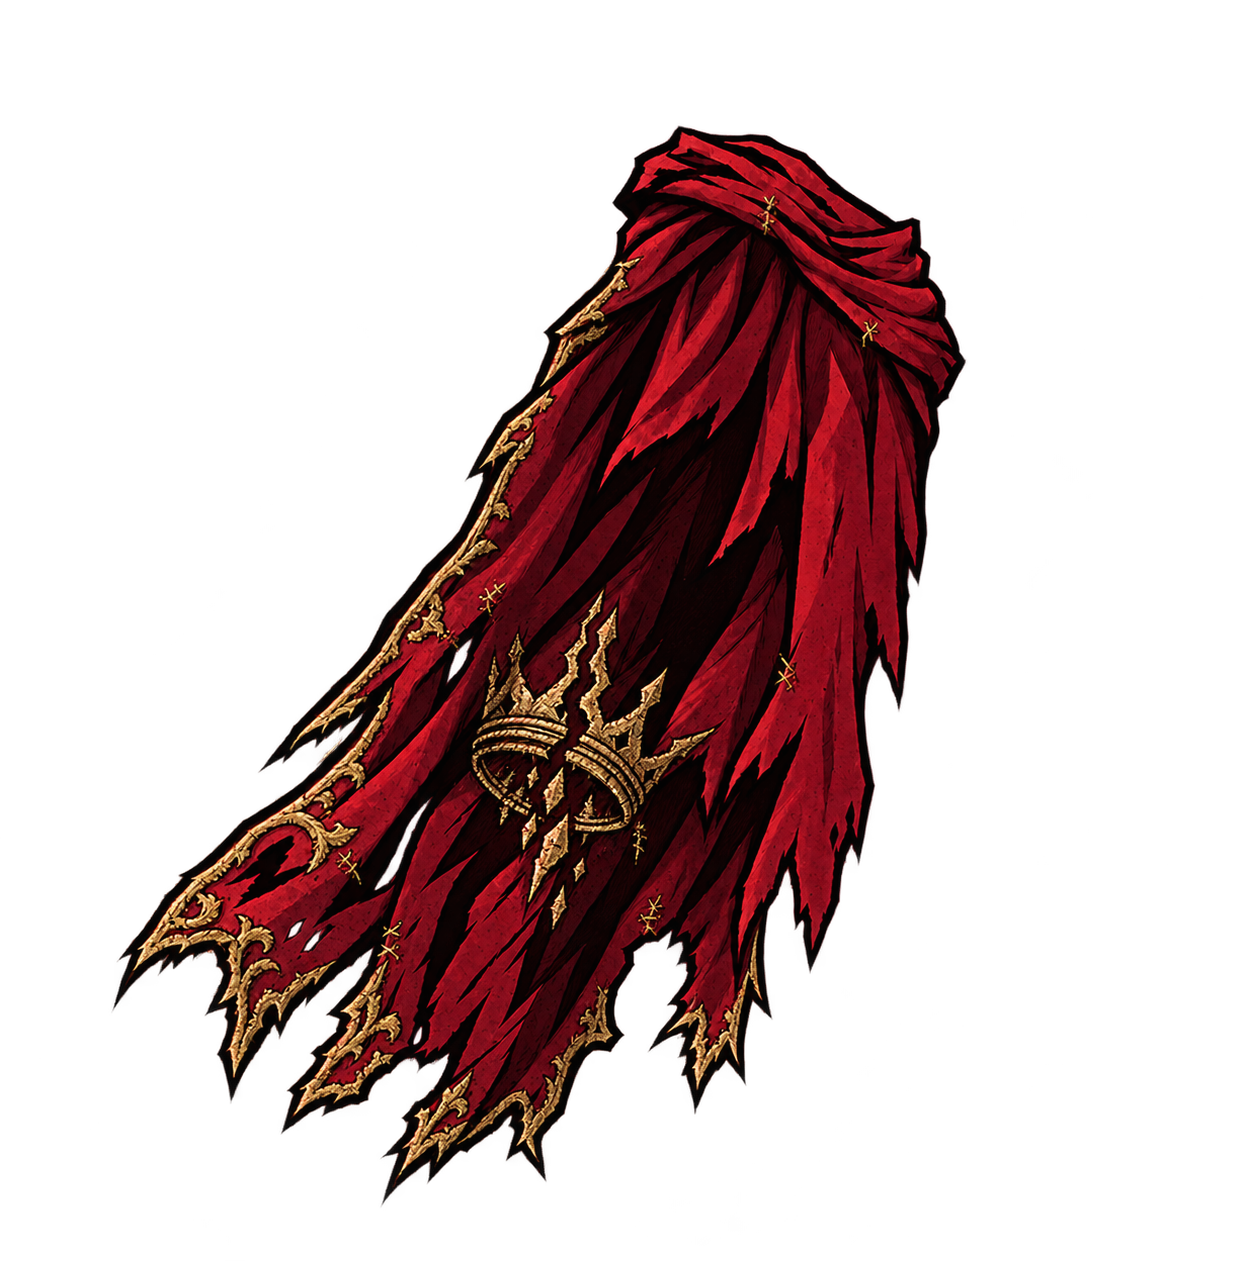
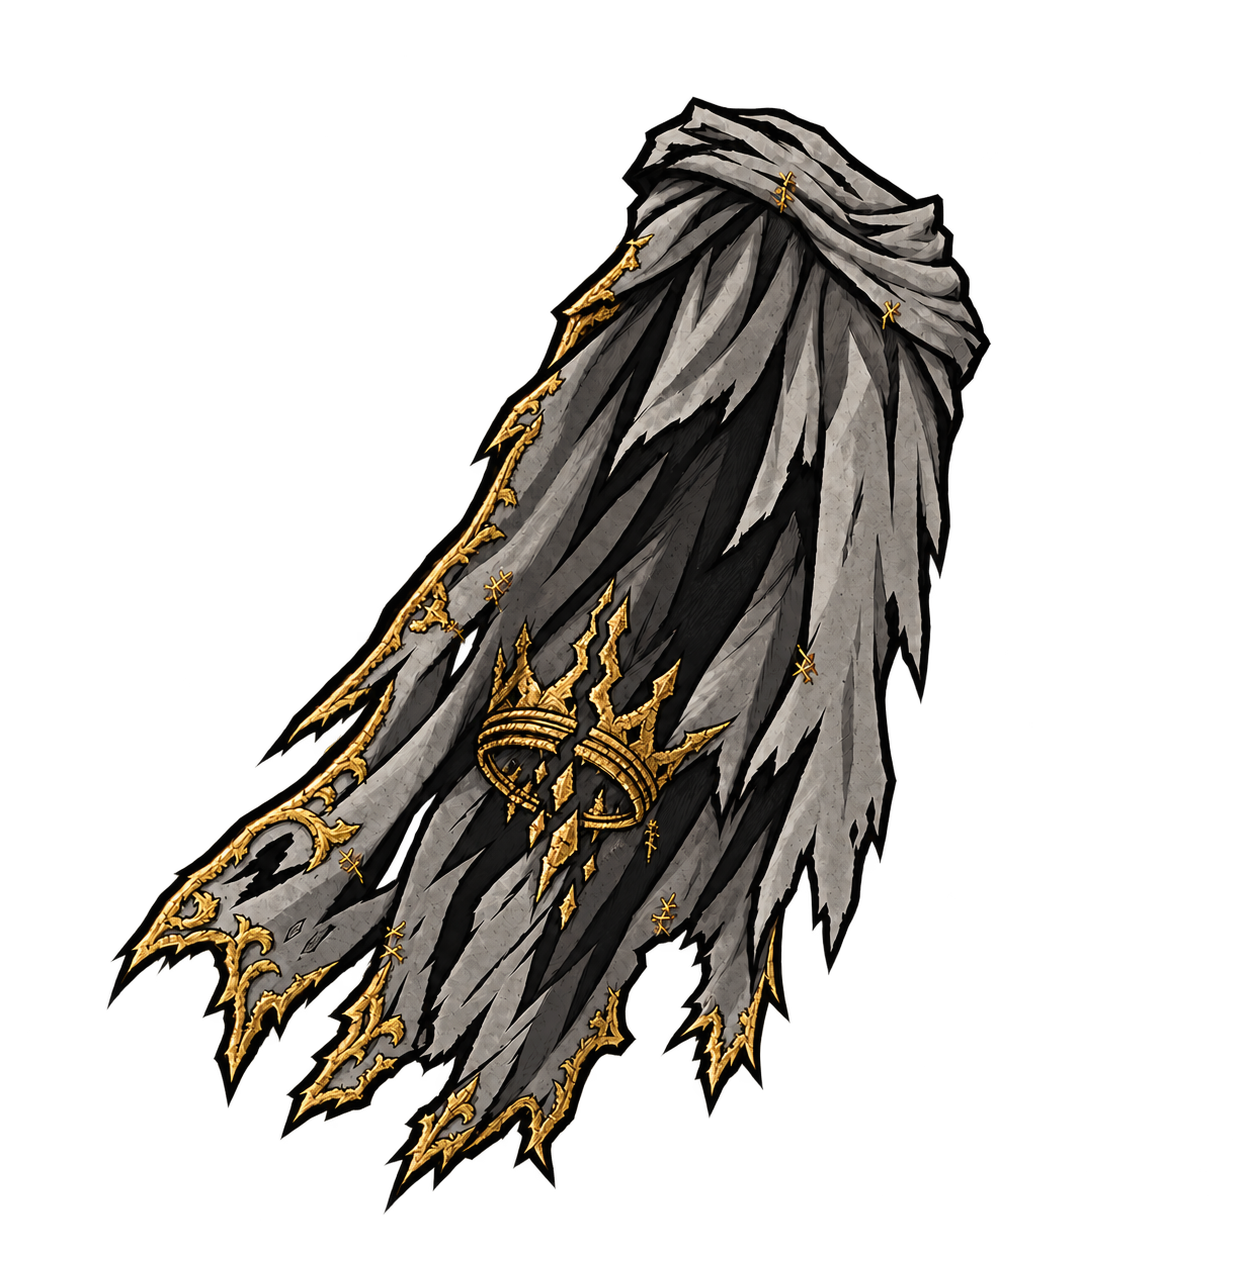
Give Warden reward mantle ash-grey cloth with gold trim

Changed region(s): [[0.0914, 0.0619, 0.7923, 0.9588]]

diff --git a/experiments/warden_cosmetics/README.md b/experiments/warden_cosmetics/README.md
@@ -6,7 +6,7 @@ Standalone visual experiment. **Nothing is integrated into the game:** the live 
 
 ## What to review
 
-The current flattened Warden is shown beside an assembled model with independently swappable greathelm, rear cloak, and insignia. The reward concept is a corrupted **Wolf Warhelm**, a gold-embroidered **Crowned Mantle**, and a crown brooch or embroidered patch. The warhelm replaces the earlier crown-on-greathelm concept with a predatory metal visor, fang-like cheek guards, jagged forged ears, and tarnished relics integrated into the armor. Its wolf motif follows the ruined keep's wolf banners and the last son's beastlike corruption. These are appearance studies for the Undying Lord, not actual unlocks or stat equipment.
+The current flattened Warden is shown beside an assembled model with independently swappable greathelm, rear cloak, and insignia. The reward concept is a corrupted **Wolf Warhelm**, an ash-grey, gold-embroidered **Crowned Mantle**, and a crown brooch or embroidered patch. The warhelm replaces the earlier crown-on-greathelm concept with a predatory metal visor, fang-like cheek guards, jagged forged ears, and tarnished relics integrated into the armor. Its wolf motif follows the ruined keep's wolf banners and the last son's beastlike corruption. The reward mantle and its neck wrap use weathered warm grey, echoing the boss's pale revenant details while retaining aged-gold trim. These are appearance studies for the Undying Lord, not actual unlocks or stat equipment.
 
 The **Preview boss reward** checkbox simulates availability within this lab only. Turning it off restores ordinary parts and disables reward choices. Compare different combinations, inspect a single layer, overlay the original to check alignment, or separate the components to see the construction.
 
@@ -41,7 +41,7 @@ Helmet X/Y and scale controls let us inspect the neck fit without editing pixels
 
 ## Artist kit and alignment
 
-All source PNGs live in **`godot/assets/`**. The original Warden and room are byte-identical copies from main-game commit `5782f68`. The body, arms/gear, scarf, cloak, reward cloak, corrupted warhelm, and component sheet were generated/edited with the session's OpenAI image tool. Original output pixels are preserved unchanged; Godot applies fitting transforms when rendering.
+All source PNGs live in **`godot/assets/`**. The original Warden and room are byte-identical copies from main-game commit `5782f68`. The body, arms/gear, scarf, cloak, reward cloak and matching grey scarf, corrupted warhelm, and component sheet were generated/edited with the session's OpenAI image tool. Original output pixels are preserved unchanged; Godot applies fitting transforms when rendering.
 
 - `sources.json` records dimensions and SHA-256 hashes.
 - `components.json` records layer order, texture regions, source-space sockets, and the patch's cloth attachment.
